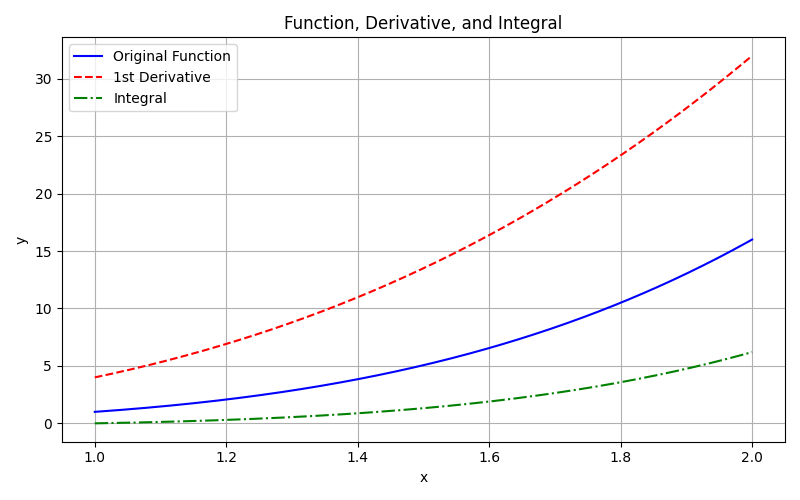
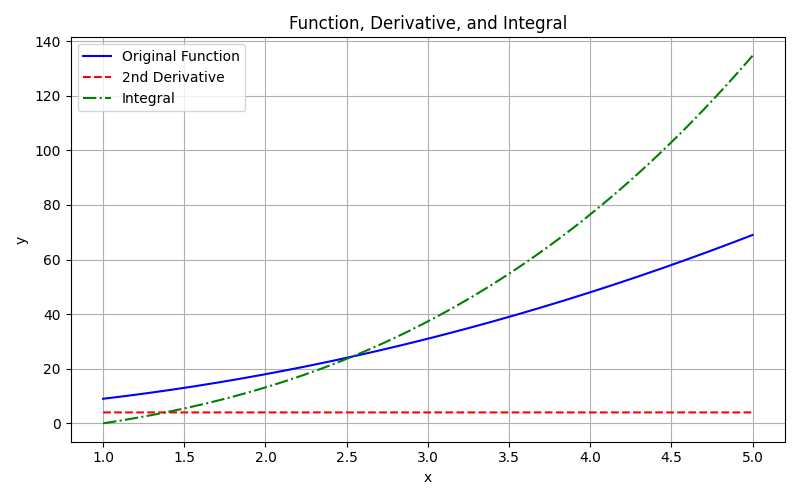
Added feature to view function, integral, and derivatives

diff --git a/main.py b/main.py
@@ -1,11 +1,10 @@
 import numpy as np
 import matplotlib.pyplot as plt
 from scipy.integrate import quad
-from sympy import symbols, lambdify, sympify
+from sympy import symbols, lambdify, sympify, diff, integrate
 import tkinter as tk
 from tkinter import messagebox, ttk
 from matplotlib.backends.backend_tkagg import FigureCanvasTkAgg
-
 
 # Numerical derivative
 def numerical_derivative(fx, x_vals, order=1, h=1e-5):
@@ -16,7 +15,6 @@ def numerical_derivative(fx, x_vals, order=1, h=1e-5):
     else:
         raise ValueError("Only 1st and 2nd derivatives are supported.")
 
-
 # Numerical integration
 def numerical_integral(fx, x_vals):
     x_start = x_vals[0]
@@ -25,7 +23,6 @@ def numerical_integral(fx, x_vals):
         val, _ = quad(fx, x_start, x)
         result.append(val)
     return np.array(result)
-
 
 # GUI Application
 class CalculusVisualizer:
@@ -60,6 +57,16 @@ class CalculusVisualizer:
         self.canvas = FigureCanvasTkAgg(self.fig, master=root)
         self.canvas.get_tk_widget().grid(row=3, column=0, columnspan=4)
 
+        # Labels to show function, derivative, and integral
+        self.func_label = tk.Label(root, text="Function: ", fg="blue", anchor="w", font=("Arial", 10, "bold"), wraplength=600)
+        self.func_label.grid(row=4, column=0, columnspan=4, sticky="w", padx=10)
+
+        self.deriv_label = tk.Label(root, text="Derivative: ", fg="red", anchor="w", font=("Arial", 10, "bold"), wraplength=600)
+        self.deriv_label.grid(row=5, column=0, columnspan=4, sticky="w", padx=10)
+
+        self.integral_label = tk.Label(root, text="Integral: ", fg="green", anchor="w", font=("Arial", 10, "bold"), wraplength=600)
+        self.integral_label.grid(row=6, column=0, columnspan=4, sticky="w", padx=10)
+
     def plot(self):
         x = symbols('x')
         func_str = self.func_entry.get()
@@ -86,6 +93,16 @@ class CalculusVisualizer:
             y_vals = fx(x_vals)
             dy_vals = numerical_derivative(fx, x_vals, order=order)
             integral_vals = numerical_integral(fx, x_vals)
+
+            # Symbolic computation
+            deriv_expr = diff(expr, x, order)
+            integral_expr = integrate(expr, x)
+
+            # Display symbolic expressions
+            self.func_label.config(text=f"Function: f(x) = {str(expr)}")
+            self.deriv_label.config(text=f"Derivative: f'(x) = {str(deriv_expr)}")
+            self.integral_label.config(text=f"Integral: ∫f(x)dx = {str(integral_expr)}")
+
         except Exception as e:
             messagebox.showerror("Error", f"Computation failed: {e}")
             return
@@ -108,7 +125,6 @@ class CalculusVisualizer:
             messagebox.showinfo("Saved", "Plot saved as 'calculus_plot_gui.png'")
         except Exception as e:
             messagebox.showerror("Save Error", f"Could not save plot: {e}")
-
 
 # Launch GUI
 if __name__ == "__main__":
